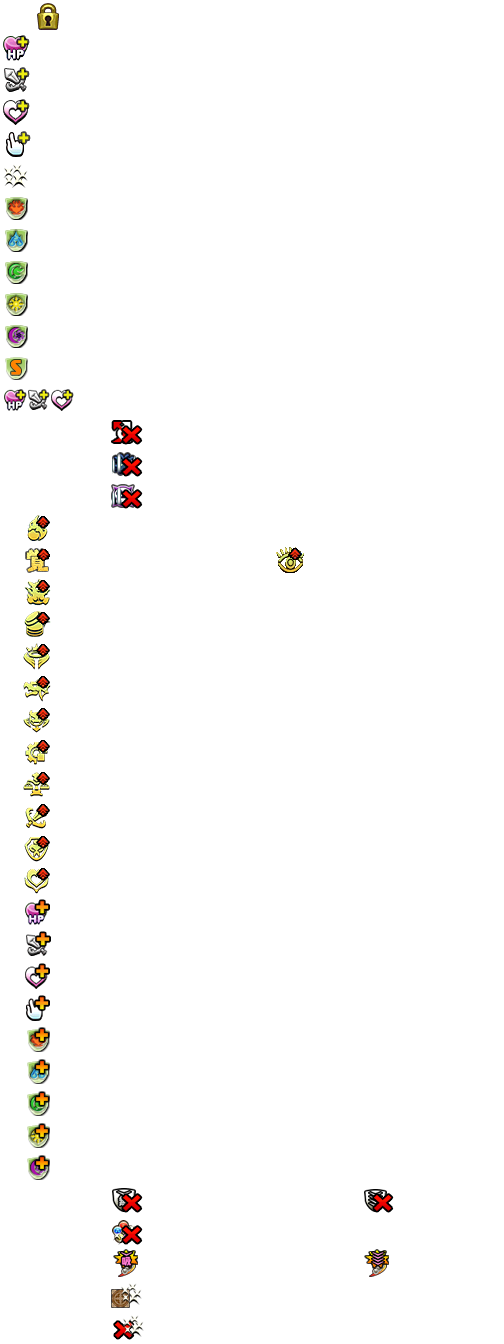
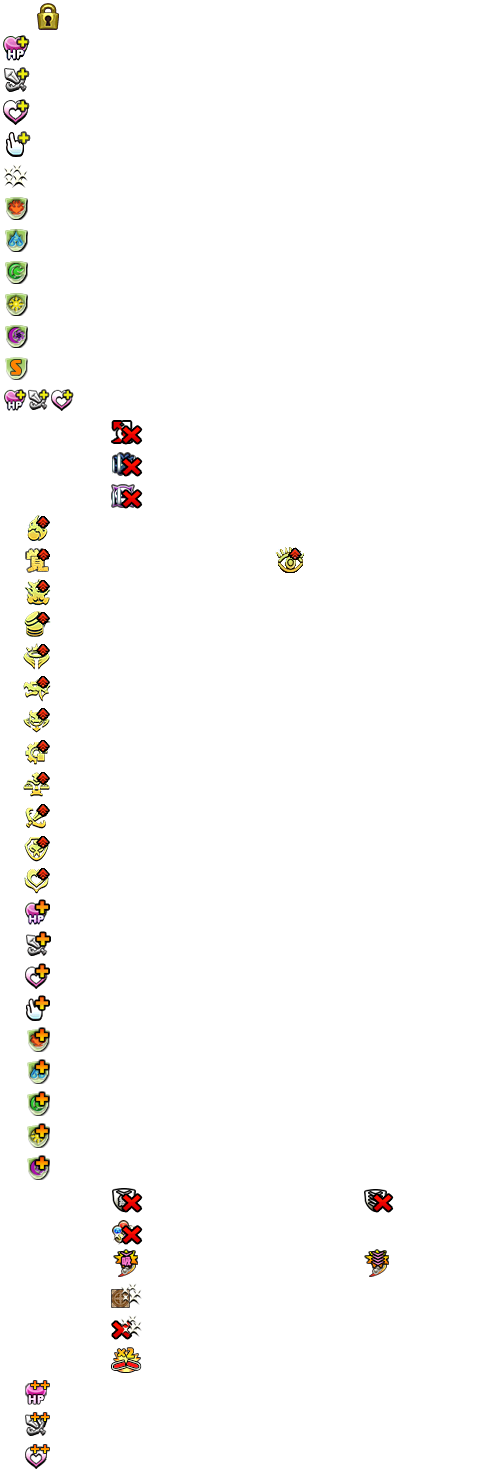
updating latent awakenings

diff --git a/src/app/guide/guide.component.ts b/src/app/guide/guide.component.ts
@@ -14,7 +14,6 @@ import { ActivatedRoute, Router } from '@angular/router';
     styleUrls: ['./guide.component.scss']
 })
 export class GuideComponent implements OnInit {
-
     @Input() admin = false;
     @Input() guideId = '';
 
@@ -220,9 +219,9 @@ export class GuideComponent implements OnInit {
             backgroundPositionY: l * -32 + 'px'
         };
 
-        if ([12, 16, 17, 18, 19, 20, 21, 22, 23, 24, 25, 26, 27, 28, 29, 30, 31, 32, 33, 34, 35, 36].indexOf(l) !== -1) {
+        if ([12, 16, 17, 18, 19, 20, 21, 22, 23, 24, 25, 26, 27, 28, 29, 30, 31, 32, 33, 34, 35, 36, 43, 44, 45].indexOf(l) !== -1) {
             style.width = '70px';
-        } else if ([13, 14, 15, 37, 38, 39, 40, 41].indexOf(l) !== -1) {
+        } else if ([13, 14, 15, 37, 38, 39, 40, 41, 42].indexOf(l) !== -1) {
             style.width = '146px';
             style.marginLeft = '-50px';
             style.marginRight = '47px';
@@ -234,7 +233,7 @@ export class GuideComponent implements OnInit {
     }
 
     isSixSlot(l) {
-        return [13, 14, 15, 37, 38, 39, 40, 41].indexOf(l) !== -1;
+        return [13, 14, 15, 37, 38, 39, 40, 41, 42].indexOf(l) !== -1;
     }
 
     search(id?) {
@@ -361,5 +360,4 @@ export class GuideComponent implements OnInit {
             this.dungeonSuggestions = [...new Set(results.sort((a, b) => a.level - b.level).map(d => d.data))];
         }
     }
-
 }
